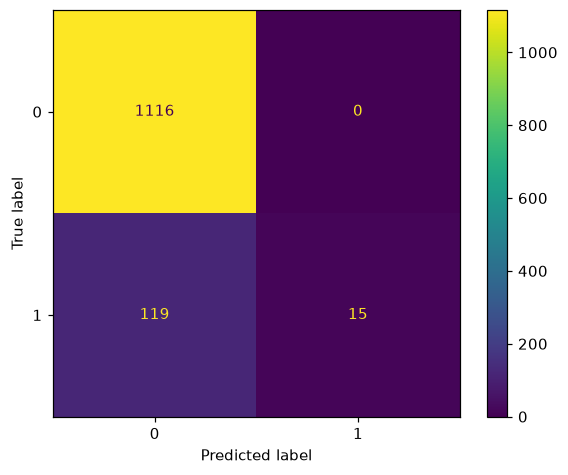
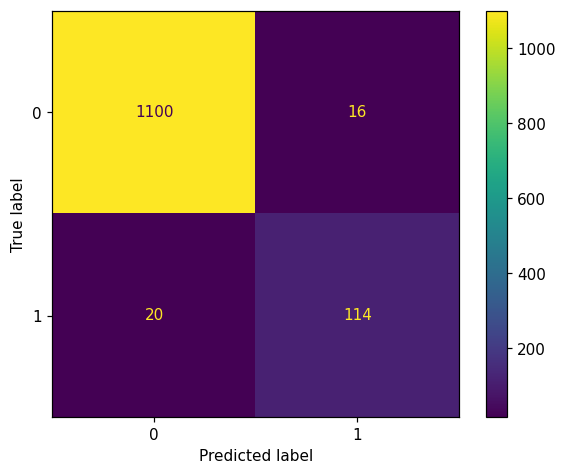
xai: explications et fiche modele
Etapes 1 a 11 du TP8 : importance, PDP/ICE, SHAP, LIME, contrefactuels, fuite, modeles lisibles, EBM, equite, journalisation MLflow. Donnees remises en v1 (TP3) pour retrouver les points de controle.

diff --git a/src/ebm_monotonie.py b/src/ebm_monotonie.py
@@ -1,0 +1,31 @@
+import numpy as np
+import matplotlib; matplotlib.use('Agg')
+import matplotlib.pyplot as plt
+from interpret.glassbox import ExplainableBoostingClassifier
+from sklearn.ensemble import HistGradientBoostingClassifier
+from sklearn.inspection import partial_dependence
+from sklearn.metrics import f1_score
+from sklearn.tree import DecisionTreeClassifier
+from xai_commun import m, Xtr, Xte, ytr, yte, CAS
+# 1. EBM : une courbe par variable, explication exacte
+ebm = ExplainableBoostingClassifier(interactions=0, random_state=42).fit(Xtr, ytr)
+print('EBM F1 =', round(f1_score(yte, ebm.predict(Xte)), 4))
+loc = ebm.explain_local(CAS).data(0)
+print('Mme Benali :', {k: round(float(v), 2) for k, v in zip(loc['names'], loc['scores'])},
+      '+ constante', round(ebm.intercept_[0], 2), '-> P =', round(ebm.predict_proba(CAS)[0, 1], 3))
+# 2. Boosting avec et sans contrainte de monotonie (montant +, anciennete -, freq +, nuit +)
+fig, ax = plt.subplots(figsize=(7, 4))
+for cst, lab in [(None, 'sans contrainte'), ([1, -1, 1, 1], 'avec contrainte')]:
+    h = HistGradientBoostingClassifier(random_state=0, monotonic_cst=cst).fit(Xtr, ytr)
+    print(f'boosting {lab:16s} F1 = {f1_score(yte, h.predict(Xte)):.4f}')
+    pd_ = partial_dependence(h, Xte.astype(float), ['anciennete'], method='brute',
+                             response_method='predict_proba', grid_resolution=60)
+    ax.plot(pd_['grid_values'][0], pd_['average'][0], label=lab)
+ax.set_xlabel('anciennete (mois)'); ax.set_ylabel('P(fraude) moyenne'); ax.legend()
+plt.tight_layout(); plt.savefig('reports/monotonie.png', dpi=120)
+# 3. Substitut : un arbre court qui imite la foret
+pf_tr, pf_te = m.predict(Xtr), m.predict(Xte)
+for p in [3, 5]:
+    s = DecisionTreeClassifier(max_depth=p, random_state=0).fit(Xtr, pf_tr)
+    acc = (s.predict(Xte) == pf_te).mean(); accf = (s.predict(Xte)[pf_te == 1] == 1).mean()
+    print(f'substitut prof. {p} : accord {acc:.1%}, accord sur les fraudes de la foret {accf:.1%}')

diff --git a/src/lisibles.py b/src/lisibles.py
@@ -1,0 +1,25 @@
+import numpy as np, pandas as pd
+from sklearn.linear_model import LogisticRegression
+from sklearn.metrics import f1_score
+from sklearn.pipeline import make_pipeline
+from sklearn.preprocessing import StandardScaler
+from sklearn.tree import DecisionTreeClassifier, export_text
+from xai_commun import m, X, Xtr, Xte, ytr, yte, CAS
+def logm(d): # le montant agit par ordre de grandeur
+    d = d.copy(); d['log_montant'] = np.log10(d.pop('montant')); return d
+for nom, f in [('montant brut', lambda d: d), ('log(montant)', logm)]:
+    lr = make_pipeline(StandardScaler(), LogisticRegression(max_iter=1000)).fit(f(Xtr), ytr)
+    print(f'logistique, {nom:12s} F1 = {f1_score(yte, lr.predict(f(Xte))):.4f}')
+coef = pd.Series(lr[-1].coef_[0], index=logm(Xtr).columns)
+print('coefficients standardises :', coef.round(2).to_dict())
+brut = np.exp(coef / lr[0].scale_) # effet d'une unite, en multiplicateur de cote
+print('cote x', round(brut['anciennete'], 3), 'par mois d\'anciennete ; x',
+      round(brut['freq_24h'], 2), 'par transaction en 24 h')
+for p in [2, 3, 4, 6, None]:
+    t = DecisionTreeClassifier(max_depth=p, random_state=0).fit(Xtr, ytr)
+    print(f'arbre profondeur {str(p):4s}: {t.get_n_leaves():3d} feuilles, F1 = '
+          f'{f1_score(yte, t.predict(Xte)):.4f}')
+t3 = DecisionTreeClassifier(max_depth=3, random_state=0).fit(Xtr, ytr)
+print(export_text(t3, feature_names=list(X.columns), decimals=1))
+print('Mme Benali : feuille', t3.apply(CAS)[0], '| P =', round(t3.predict_proba(CAS)[0, 1], 3))
+print('foret : F1 =', round(f1_score(yte, m.predict(Xte)), 4))

diff --git a/src/xai_lime.py b/src/xai_lime.py
@@ -1,0 +1,15 @@
+from lime.lime_tabular import LimeTabularExplainer
+from xai_commun import m, X, Xtr, CAS
+ex0 = LimeTabularExplainer(Xtr.values, feature_names=list(X.columns), mode='classification',
+                           class_names=['legitime', 'fraude'], random_state=0)
+print('regles :', [k for k, _ in ex0.explain_instance(CAS.values[0], m.predict_proba,
+                                                      num_features=4).as_list()])
+for n in [500, 2000]: # taille du voisinage
+    print(f'--- {n} voisins montant nuit anciennete freq_24h')
+    for graine in range(5): # 5 tirages : l'explication est-elle stable ?
+        ex = LimeTabularExplainer(Xtr.values, feature_names=list(X.columns), mode='classification',
+                                  class_names=['legitime', 'fraude'], random_state=graine)
+        e = dict(ex.explain_instance(CAS.values[0], m.predict_proba, num_features=4,
+                                     num_samples=n).as_list())
+        w = [next(v for k, v in e.items() if col in k) for col in X.columns]
+        print(f'graine {graine} {w[0]:+.3f} {w[3]:+.3f} {w[1]:+.3f} {w[2]:+.3f}')

diff --git a/src/fuite.py b/src/fuite.py
@@ -1,0 +1,16 @@
+import joblib, numpy as np, pandas as pd
+from sklearn.ensemble import RandomForestClassifier
+from sklearn.inspection import permutation_importance
+from sklearn.metrics import f1_score
+from sklearn.model_selection import train_test_split
+df = pd.read_csv('data/transactions.csv')
+rng = np.random.default_rng(1) # resultat de l'enquete, connu APRES coup
+df['statut_enquete'] = np.where(rng.random(len(df)) < 0.97, df['fraude'], 1 - df['fraude'])
+X, y = df.drop(columns='fraude'), df['fraude']
+Xtr, Xte, ytr, yte = train_test_split(X, y, test_size=0.25, random_state=42)
+m = RandomForestClassifier(n_estimators=300, max_depth=12, random_state=42).fit(Xtr, ytr)
+print('F1 avec la colonne :', round(f1_score(yte, m.predict(Xte)), 4))
+r = permutation_importance(m, Xte, yte, scoring='f1', n_repeats=5, random_state=0)
+print(pd.Series(r.importances_mean, index=X.columns).sort_values(ascending=False).round(3).to_string())
+joblib.dump(m, 'models/model_fuite.pkl'); df.to_csv('data/transactions_fuite.csv', index=False)
+print('modele et donnees avec fuite ecrits')

diff --git a/src/equite.py b/src/equite.py
@@ -1,0 +1,13 @@
+import numpy as np, pandas as pd
+from fairlearn.metrics import MetricFrame, false_positive_rate, selection_rate
+from sklearn.metrics import recall_score
+from xai_commun import m, Xte, yte
+rng = np.random.default_rng(7) # groupe A/B FICTIF, pour l'exercice
+p_b = np.where(Xte['anciennete'] < 24, 0.75, 0.25) # B plus frequent chez les clients recents
+groupe = pd.Series(np.where(rng.random(len(Xte)) < p_b, 'B', 'A'), index=Xte.index, name='groupe')
+pred = m.predict(Xte) # le modele ne voit JAMAIS le groupe
+mf = MetricFrame(metrics={'taux_alerte': selection_rate, 'fausses_alertes': false_positive_rate,
+                          'rappel': recall_score}, y_true=yte, y_pred=pred, sensitive_features=groupe)
+print(mf.by_group.round(4).to_string())
+print('taux reel de fraude :', yte.groupby(groupe).mean().round(4).to_dict())
+print('ecart entre groupes :', mf.difference().round(4).to_dict())

diff --git a/src/xai_global.py b/src/xai_global.py
@@ -1,0 +1,14 @@
+import numpy as np, pandas as pd, shap
+import matplotlib; matplotlib.use('Agg')
+import matplotlib.pyplot as plt
+from xai_commun import m, Xte
+Xs = Xte.sample(400, random_state=0)
+sv = shap.TreeExplainer(m)(Xs)[:, :, 1] # 400 explications, classe fraude
+imp = pd.Series(np.abs(sv.values).mean(0), index=Xs.columns)
+print(imp.sort_values(ascending=False).round(4).to_string())
+shap.plots.beeswarm(sv, show=False)
+plt.tight_layout(); plt.savefig('reports/shap_global.png', dpi=120); plt.close('all')
+plt.scatter(Xs['montant'], sv[:, 'montant'].values, c=Xs['nuit'], cmap='coolwarm', s=12)
+plt.xscale('log'); plt.xlabel('montant (MAD)'); plt.ylabel('contribution SHAP du montant')
+plt.colorbar(label='nuit'); plt.tight_layout(); plt.savefig('reports/shap_montant.png', dpi=120)
+print('graphiques ecrits')

diff --git a/src/journaliser.py b/src/journaliser.py
@@ -1,0 +1,11 @@
+import json, os, mlflow
+mlflow.set_tracking_uri(os.environ.get('MLFLOW_TRACKING_URI', 'http://127.0.0.1:5000'))
+mlflow.set_experiment('tp8-explicabilite')
+with mlflow.start_run(run_name='xai-foret-v1'):
+    for f in ['shap_global.png', 'shap_benali.png', 'shap_montant.png', 'pdp_ice.png', 'monotonie.png']:
+        mlflow.log_artifact('reports/' + f, artifact_path='explications')
+    mlflow.log_metrics({'f1': json.load(open('reports/metrics.json'))['f1'],
+                        'ecart_fausses_alertes': 0.0105}) # l'equite devient une metrique
+    mlflow.log_artifact('MODEL_CARD.md')
+    mlflow.set_tag('revue', 'a valider par le metier')
+print('explications et fiche modele journalisees')

diff --git a/src/xai_pdp.py b/src/xai_pdp.py
@@ -1,0 +1,12 @@
+import matplotlib; matplotlib.use('Agg')
+import matplotlib.pyplot as plt
+from sklearn.inspection import PartialDependenceDisplay, partial_dependence
+from xai_commun import m, Xte
+Xf = Xte.astype(float) # le PDP refuse les colonnes entieres
+fig, ax = plt.subplots(1, 2, figsize=(11, 4))
+PartialDependenceDisplay.from_estimator(m, Xf, ['montant', 'anciennete'], kind='both',
+                                        subsample=60, random_state=0, ax=ax)
+plt.tight_layout(); plt.savefig('reports/pdp_ice.png', dpi=120)
+for v in ['montant', 'anciennete']:
+    moy = partial_dependence(m, Xf, [v], kind='average')['average'][0]
+    print(f'{v:11s} PDP de {moy.min():.3f} a {moy.max():.3f}')

diff --git a/src/xai_local.py b/src/xai_local.py
@@ -1,0 +1,13 @@
+import shap
+import matplotlib; matplotlib.use('Agg')
+import matplotlib.pyplot as plt
+from xai_commun import m, CAS
+ex = shap.TreeExplainer(m) # exact et rapide pour les arbres
+e = ex(CAS)[0, :, 1] # classe 1 = fraude
+print('moyenne du modele :', round(e.base_values, 4))
+for nom, c in sorted(zip(CAS.columns, e.values), key=lambda t: -abs(t[1])):
+    print(f'{nom:11s} {c:+.4f}')
+print('somme :', round(e.base_values + e.values.sum(), 4))
+print('prediction :', round(m.predict_proba(CAS)[0, 1], 4))
+shap.plots.waterfall(e, show=False)
+plt.tight_layout(); plt.savefig('reports/shap_benali.png', dpi=120)

diff --git a/src/contrefactuel.py b/src/contrefactuel.py
@@ -1,0 +1,14 @@
+import numpy as np
+from xai_commun import m, CAS
+p = lambda d: m.predict_proba(d)[0, 1]
+print('situation reelle : P =', round(p(CAS), 3))
+c = CAS.copy(); c['nuit'] = 0
+print('meme paiement de jour : P =', round(p(c), 3))
+c = CAS.copy()
+for v in np.arange(1800, 0, -10): # on baisse le montant pas a pas
+    c['montant'] = v
+    if p(c) < 0.5: print(f'montant <= {v} MAD : P =', round(p(c), 3)); break
+c = CAS.copy()
+for a in range(30, 121): # on augmente l'anciennete
+    c['anciennete'] = a
+    if p(c) < 0.5: print(f'anciennete >= {a} mois : P =', round(p(c), 3)); break

diff --git a/src/xai_importance.py b/src/xai_importance.py
@@ -1,0 +1,8 @@
+import pandas as pd
+from sklearn.inspection import permutation_importance
+from xai_commun import m, X, Xte, yte, CAS
+print('P(fraude) Mme Benali :', round(m.predict_proba(CAS)[0, 1], 4))
+r = permutation_importance(m, Xte, yte, scoring='f1', n_repeats=10, random_state=0)
+t = pd.DataFrame({'MDI (foret)': m.feature_importances_, 'permutation': r.importances_mean,
+                  'ecart-type': r.importances_std}, index=X.columns).round(3)
+print(t.sort_values('permutation', ascending=False).to_string())

diff --git a/src/xai_commun.py b/src/xai_commun.py
@@ -1,0 +1,7 @@
+import joblib, pandas as pd
+from sklearn.model_selection import train_test_split
+m = joblib.load('models/model.pkl') # foret du TP 2/3 (300 arbres)
+df = pd.read_csv('data/transactions.csv')
+X, y = df.drop(columns='fraude'), df['fraude']
+Xtr, Xte, ytr, yte = train_test_split(X, y, test_size=0.25, random_state=42) # meme decoupage
+CAS = pd.DataFrame([{'montant': 1800.0, 'anciennete': 30, 'freq_24h': 4, 'nuit': 1}]) # Mme Benali
